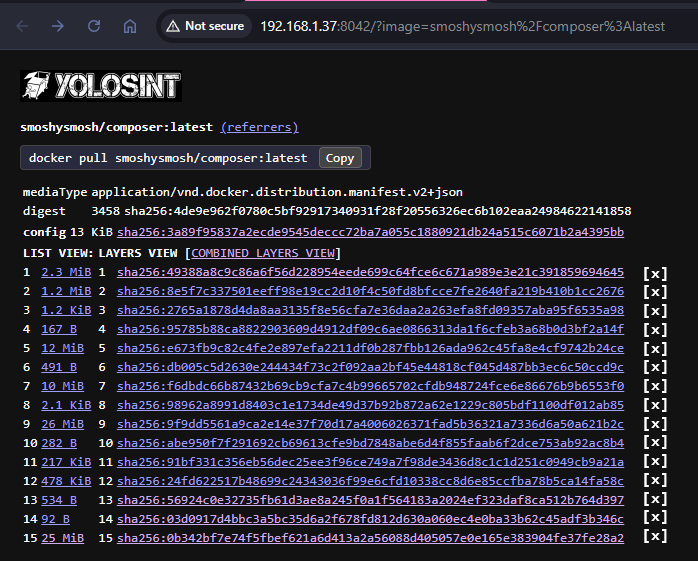
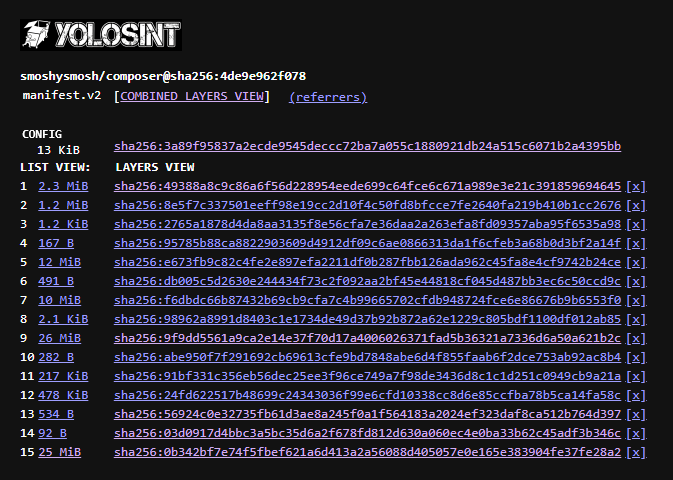
refactor images route

diff --git a/plans/goal.md b/plans/goal.md
@@ -1,96 +1,43 @@
-# Save Single Layer from Layer view
+# Refactor Template
+
+## Summary of Task
+
+Refactor: [rendergo](/internal/explore/render.go)
+
+### Problem Statement
+
+Current view is cluttered and needs alignment of the elements. The follow screencapture demonstrates the current state of the view when browsing `http://192.168.1.37:8042/?image=smoshysmosh/composer@sha256:4de9e962f0780c5bf92917340931f28f20556326ec6b102eaa24984622141858&mt=application%2Fvnd.docker.distribution.manifest.v2%2Bjson&size=3458`
+
+![current](/plans/current.png)
 
 
-## Current Status
+---
 
-~~![current view](/plans/current.png)~~
-**Has links, but they don't use the authentication flow**
+## Mockup
 
-1. Authenticate to the registry, 
-2. use the JWT from the registry to make an authenticated request to save the layer
-    - The registry serves the file, we save it.
-    - The same flow exists for viewing layer images, saving layer files.
-
-
-### User Journey
-- When I visit a `?image=namespace/repo:tag` root link, such as http://192.168.1.37:8042/?image=smoshysmosh%2Fcomposer%3Alatest :
-    - I am able to view a [list of the fies](http://192.168.1.37:8042/size/smoshysmosh/composer@sha256:0b342bf7e74f5fbef621a6d413a2a56088d405057e0e165e383904fe37fe28a2?mt=application%2Fvnd.docker.image.rootfs.diff.tar.gzip&size=26470178),
-    - I am able to browse the [filesystem by clicking this link](http://192.168.1.37:8042/fs/smoshysmosh/composer@sha256:0b342bf7e74f5fbef621a6d413a2a56088d405057e0e165e383904fe37fe28a2/?mt=application%2Fvnd.docker.image.rootfs.diff.tar.gzip&size=26470178)
-
-### Problem Statement 
-
-- There's no mechanism to download the layer `.tar.gzip` file as a whole layer
-
-## Proposed Solution
-
-Add a text link to download the layer from the registry, as indicated in this screenshot mockup: The text label `[x]` is after each layer's `sha256:digest`. 
+This is a mockup of the same screenshot, but with the elements restructured the way that I would like them.
 
 ![mockup](/plans/mockup.png)
 
-Instead of the default sha256 layer digest as the file name I'd like to save it as:
+### List of changes
 
-`namespace-repo-tag-idx.tar.gzip`. where `idx` is the layer number being saved.
+ 1. **Truncated** the `sha256` digest **beneath the logo** to *12* characters
+ 2. Truncate Manifest Type (there aren't that many types, easy to abbreviate)
+ 3. **Moved** `combined layers view` and `referrers` to the same line, below the topmost digest.
+ 4. **Removed** the "`Docker pull`" box from this view (not the tag, this command will fail)
+ 5. `CONFIG` label is now capitalized and placed in alignment with the "`LIST VIEW:`" column label. 
+ 6. `CONFIG` size is aligned with file size
+ 7. `sha256` digest for config is aligned with other `sha256` digests
+ 8. **Removed** the redundant Layer IDX column. Now there are *4* columns: The `idx`, the `file size`, the `sha256` digest, and the download `buttons`.
+ 9. **Removed** redundant `digest` text label and sha256:digest, it's the same one we're truncating below the logo, so no need to have it twice.
 
----
+## Task 
 
-You hit Docker Hub’s registry API directly: first GET a Bearer token for `repository:<namespace>/<repo>:pull`, then use that token to fetch the manifest, then download the specific layer blob by its digest. The blob URL is always `https://registry-1.docker.io/v2/<namespace>/<repo>/blobs/<digest>` and returns the raw tar.gz filesystem layer. 
----
-- The layer list is rendered in [`renderManifestTables()`](internal/explore/render.go:362) in `render.go`
-- Each layer row shows: index, size link, index again, and the digest link
-- There's an existing `SaveURL` pattern used for file downloads in [`HeaderData`](internal/explore/templates.go:313)
+1 . Make a plan with the required lines of code to change.
+- Include sufficient detail for handoff to a coding agent
+    - line numnbers where applicable
 
-**Goal:**
-- Add `[x]` download links after each layer's digest
-- Download filename format: `namespace-repo-tag-idx.tar.gzip`
+### Validation Criteria
+- Must match the mockup screenshsot 1:1
+- validate against this doc, [goal.md](/plans/goal.md)
 
-### Example code
-
-Here's the sequence using a real image, but done in curl to demonstrate. 
-
-```bash
-# Get token
-TOKEN=$(curl -s "https://auth.docker.io/token?service=registry.docker.io&scope=repository:smoshysmosh/composer:pull" | jq -r .token)
-# Use token
-curl -L -H "Authorization: Bearer $TOKEN" \
-  "https://registry-1.docker.io/v2/smoshysmosh/composer/blobs/sha256:0b342bf7e74f5fbef621a6d413a2a56088d405057e0e165e383904fe37fe28a2" \
-  -o namespace-repo-tag-layer.tar.gz
-```
-
-
-I see the problem clearly now. The current code at [`renderManifestTables()`](internal/explore/render.go:362) creates a direct `<a href>` link to the registry URL:
-
-```go
-downloadURL := fmt.Sprintf("https://%s/v2/%s/blobs/%s", registry, repoPath, digest)
-```
-
-This bypasses authentication entirely. The browser can't add Bearer tokens to a simple link click. The solution needs a server-side proxy endpoint that:
-1. Receives the download request
-2. Authenticates to the registry (gets Bearer token)
-3. Fetches the blob
-4. Streams it to the user with `Content-Disposition` header
-
----
-
-
-## Analysis Summary
-
-**The Problem:** The current code at [`renderManifestTables()`](internal/explore/render.go:362) creates direct `<a href>` links to registry URLs like `https://registry-1.docker.io/v2/<repo>/blobs/<digest>`. This bypasses authentication entirely - browsers cannot inject Bearer tokens into simple link clicks.
-
-**The Solution:** Create a server-side proxy endpoint that:
-1. Receives the download request from the user
-2. Authenticates to the registry (gets Bearer token)
-3. Fetches the blob with proper auth headers
-4. Streams it back to the user with `Content-Disposition` header
-
-**Existing Patterns:**
-- [`SaveURL`](internal/explore/templates.go:313) pattern already exists for file downloads
-- Handler has auth infrastructure: [`tokens map[string]token`](internal/explore/explore.go:66), keychain support
-- Routes like [`/fs/`](internal/explore/explore.go:123), [`/size/`](internal/explore/explore.go:124) already fetch authenticated blobs
-- 
-- 
-Now I see how it works. [`transportFromCookie()`](internal/explore/cookies.go:18) already:
-- Pings registry (line 37)
-- Gets/caches Bearer token via `transport.NewBearer()` (line 55)
-- Token is stored in `tok.TokenResponse.Token` (cached at line 78)
-
-The simplification would be to **extract** the token-getting logic into a separate `getToken()` function that `transportFromCookie()` can call, rather than duplicating code.
